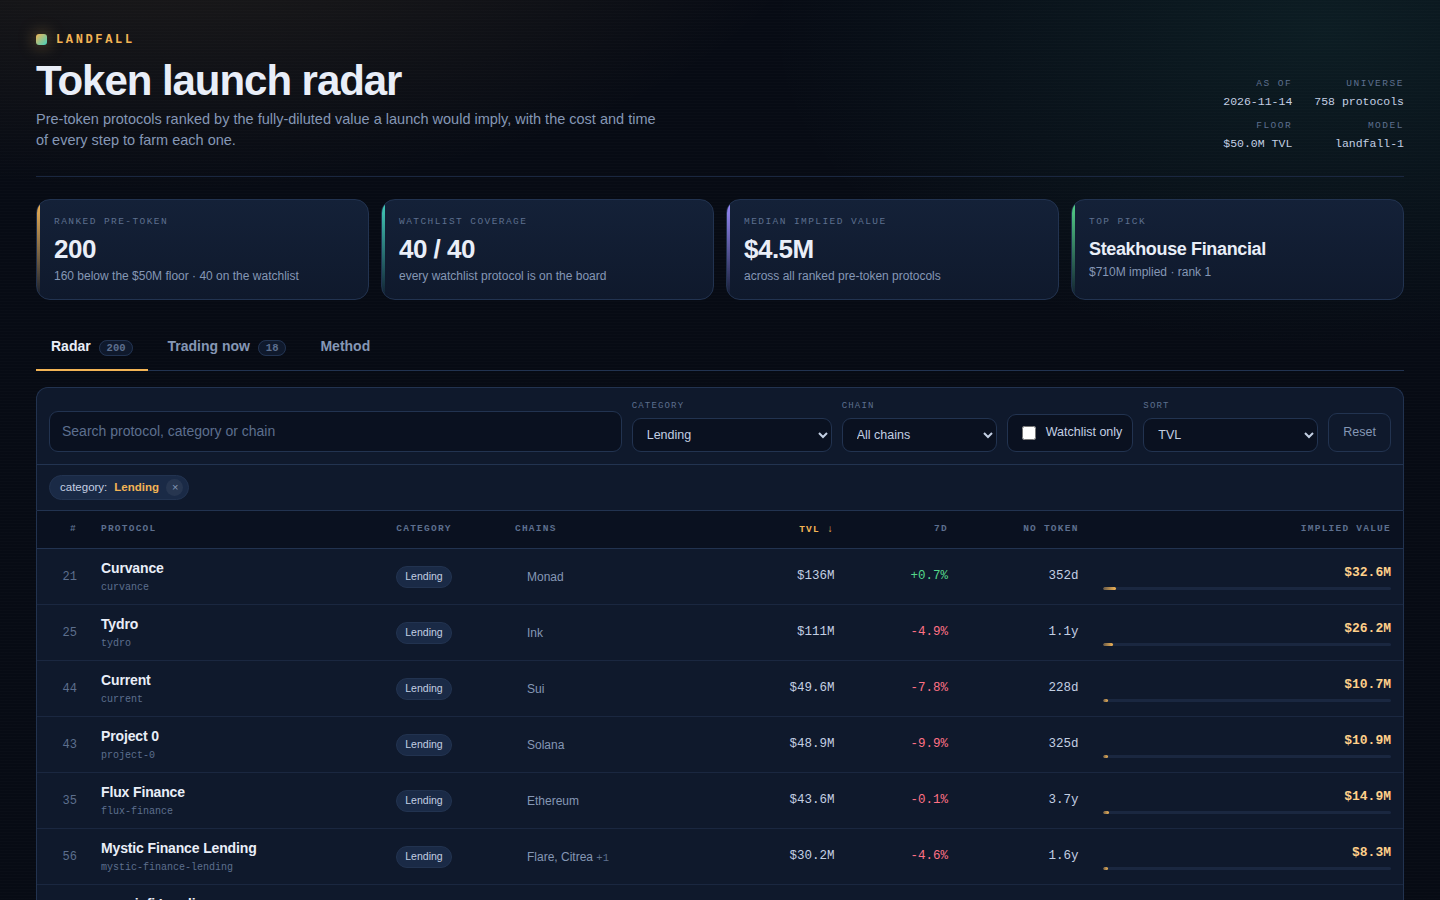
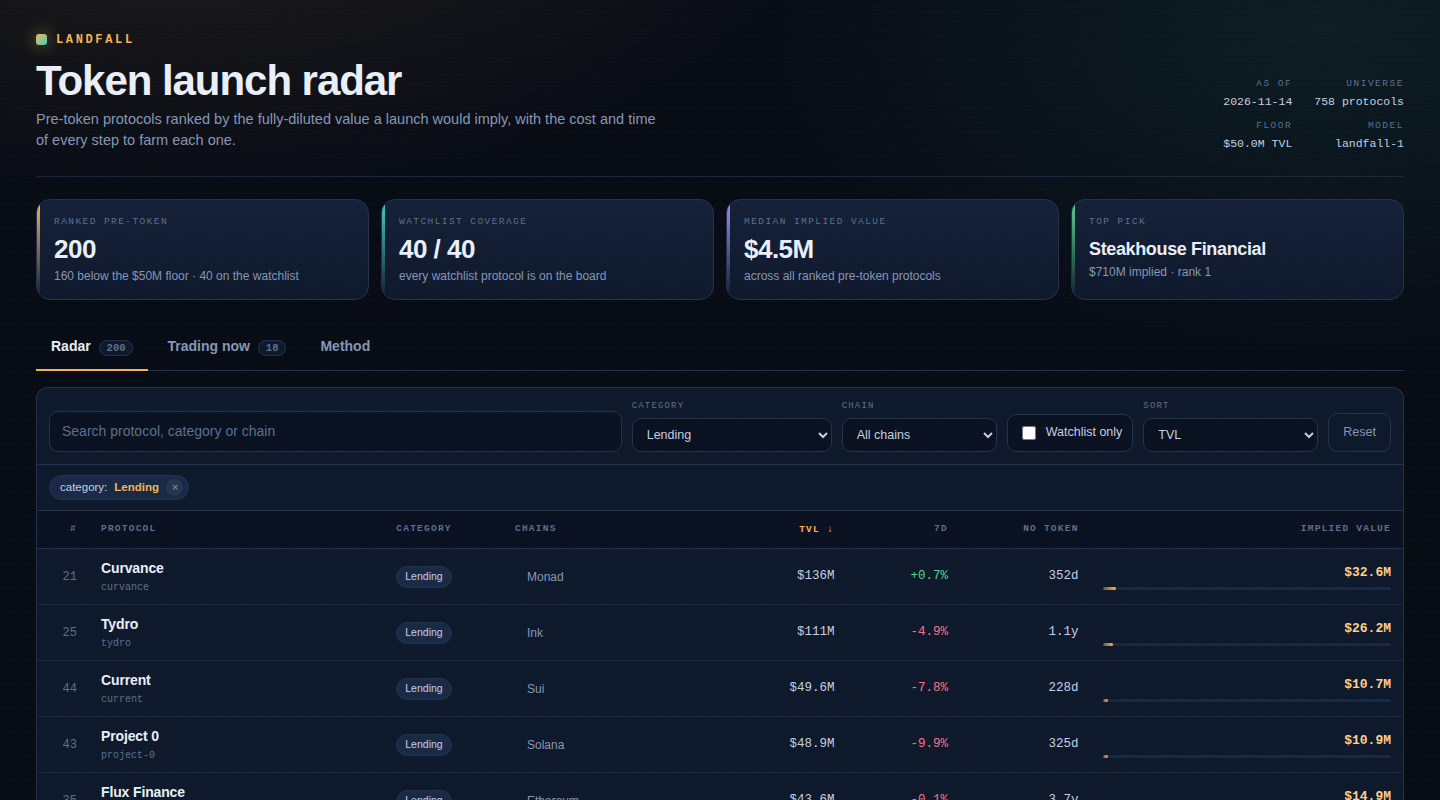
Grain: bake noise into the tile so it paints on every capture; recapture the three shots

diff --git a/dashboard/app.css b/dashboard/app.css
@@ -652,7 +652,10 @@ body::after {
   inset: 0;
   z-index: 9999;
   pointer-events: none;
-  opacity: 0.18;
[1 lines of base64/hex data omitted]
+  /* The noise lives in the tile's alpha, so it paints the same on every run:
+     a translucent tile multiplied by a fractional opacity quantised to nothing
+     on some captures. */
+  opacity: 1;
[1 lines of base64/hex data omitted]
   background-repeat: repeat;
 }
